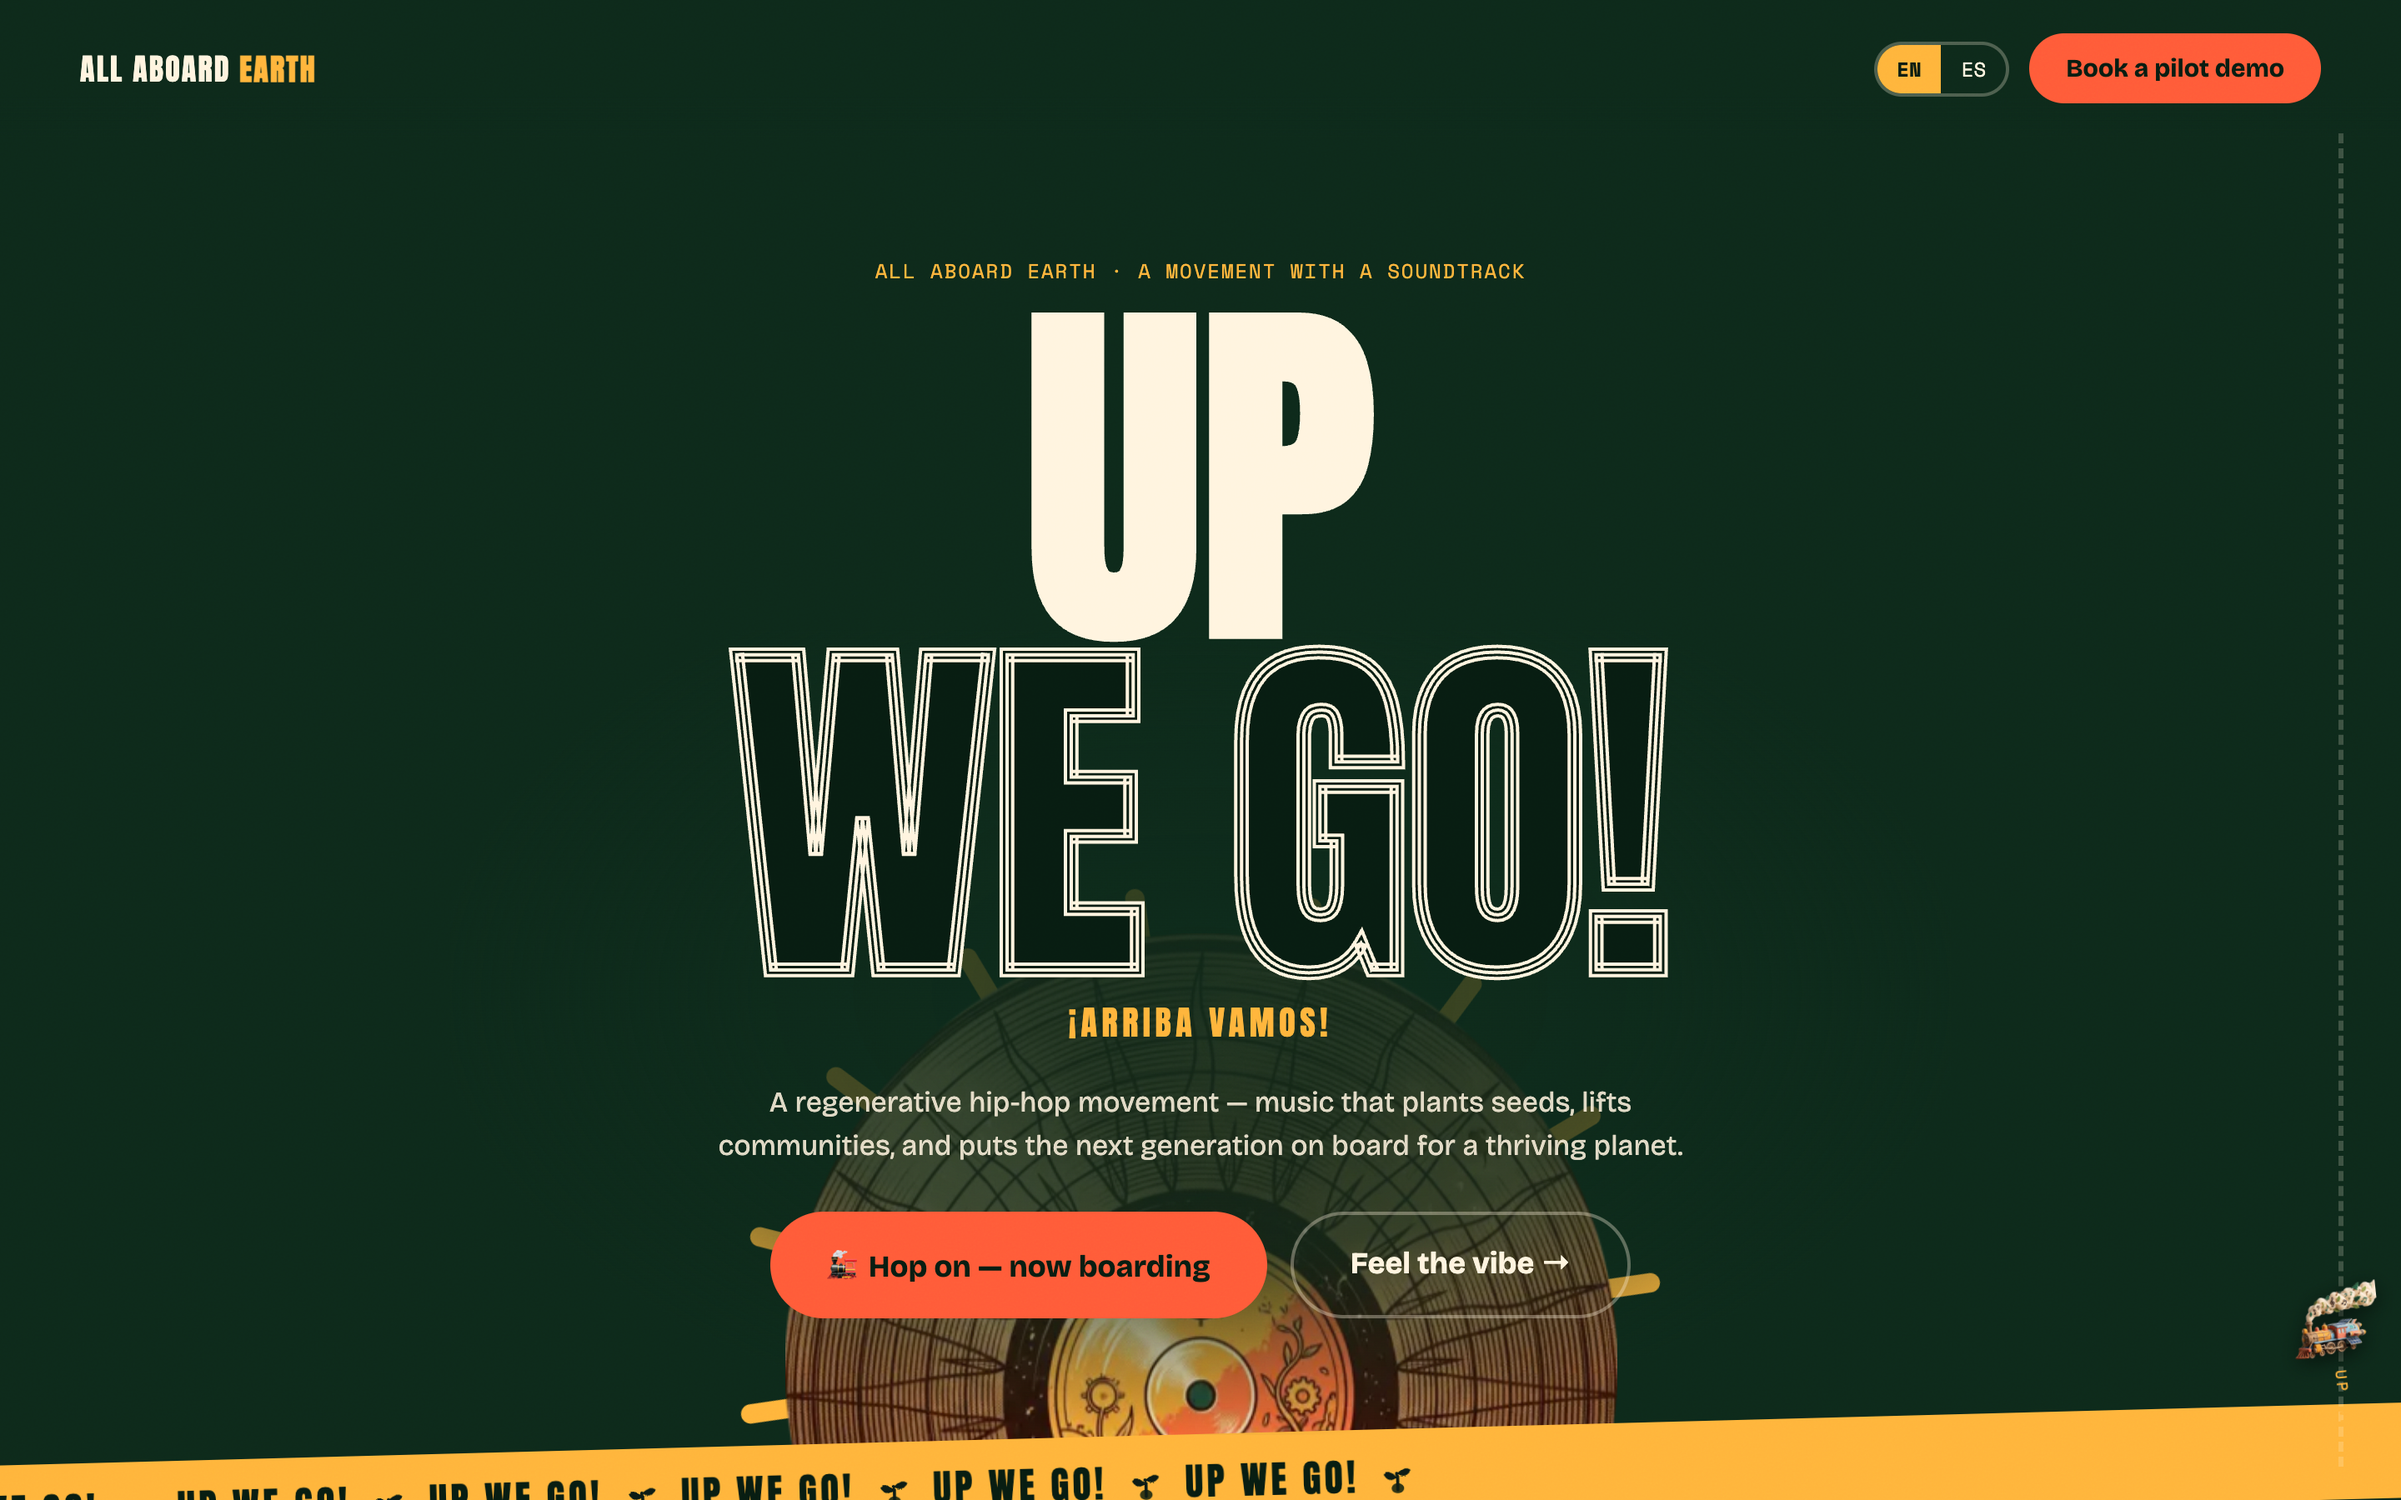
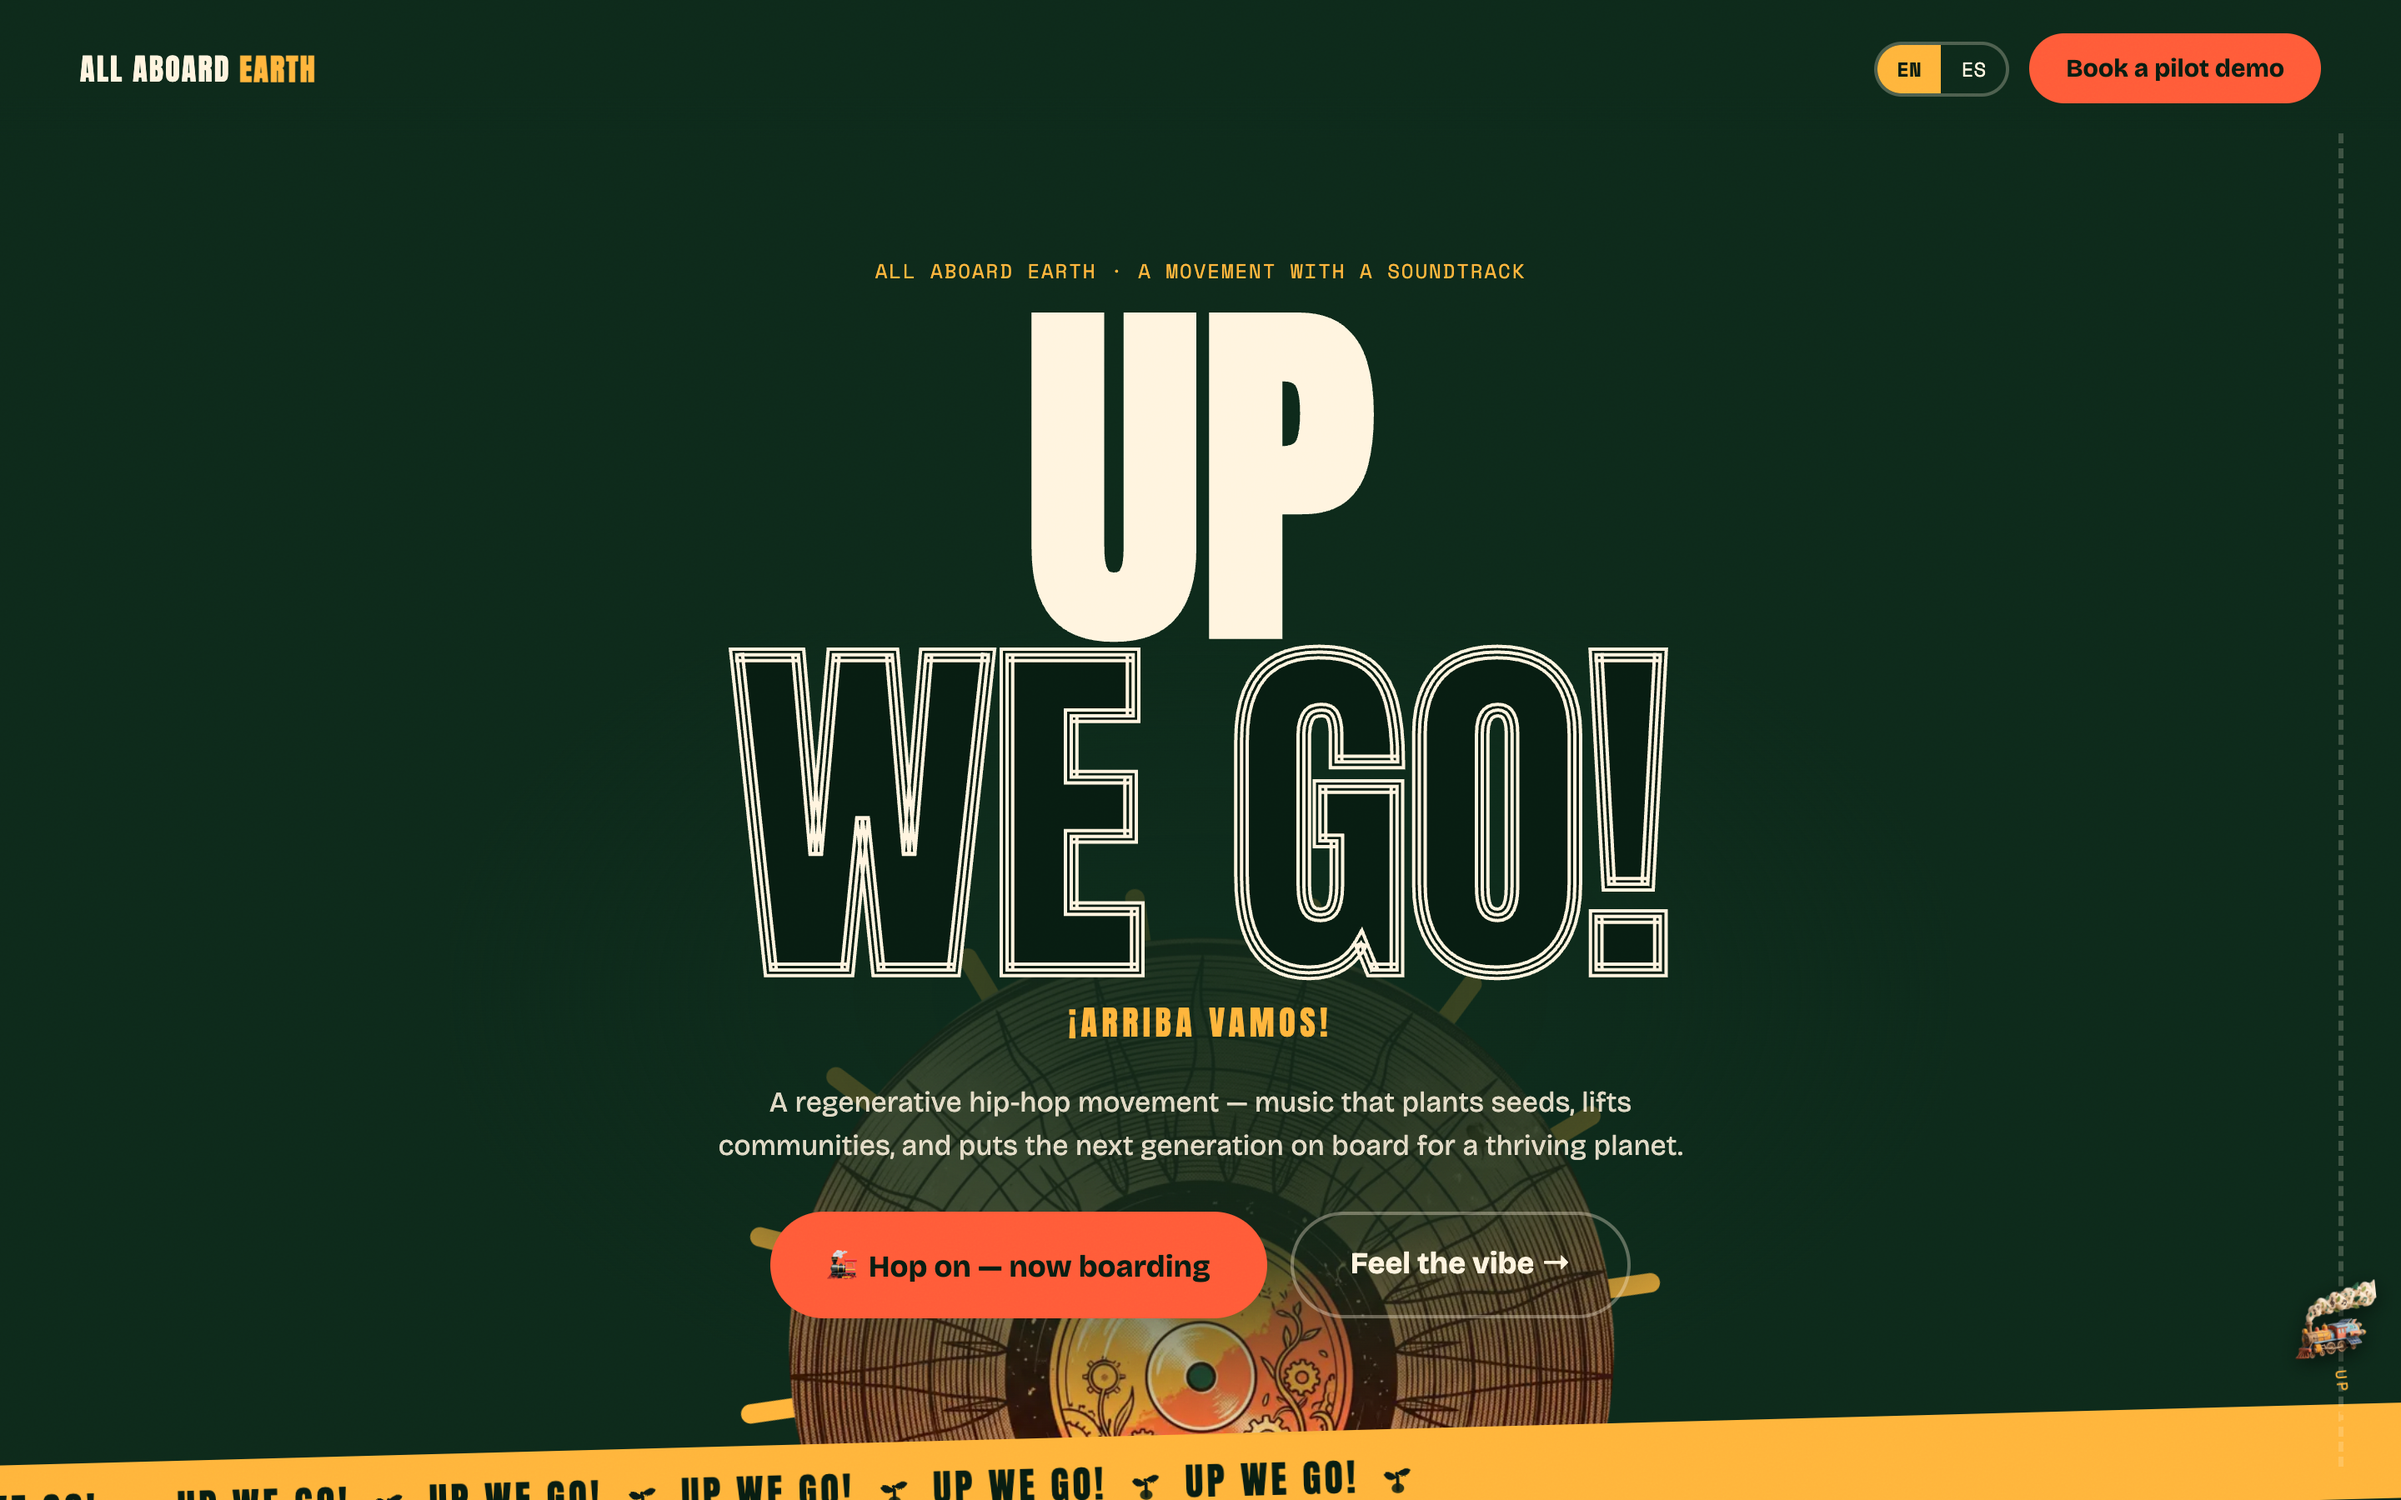
Fix the squashed hero record and raise it to retina resolution
The record was rendering 248x520 instead of square. The img carries
width/height attributes, which act as CSS presentation hints; the rule
set width:86% but no height, so height stayed pinned at the attribute
value and the disc stretched. height:auto restores it - rendered ratio
is now 1.000 at both breakpoints.

That was also why Lighthouse best-practices fell to 92: it flagged both
"incorrect aspect ratio" and "low resolution" on this one image. The
source goes 520 -> 740px (60 -> 104KB), which covers mobile retina
(needs 651px at DPR 2.625). Desktop retina wants ~998px and will be
slightly soft; a srcset would close that, at the cost of complicating
the preload.

Changed region(s): [[0.3125, 0.7778, 0.6875, 0.9644], [0.3438, 0.7778, 0.4375, 0.8089]]

diff --git a/src/AllAboardEarthPrototype.jsx b/src/AllAboardEarthPrototype.jsx
@@ -274,8 +274,8 @@ function VinylSun() {
         className="vinyl-disc"
         src="/art/vinyl-sun.webp"
         alt=""
-        width="520"
-        height="520"
+        width="740"
+        height="740"
         fetchPriority="high"
         decoding="async"
       />
@@ -579,7 +579,7 @@ export default function App() {
           z-index:0; transform:translateX(-50%); animation:rise 1.6s var(--ease-settle) both; will-change:transform; }
         .vinyl-sun{ display:block; width:100%; position:absolute; inset:0;
           transform:translate3d(0, var(--sun-shift, 0px), 0); will-change:transform; }
-        .vinyl-disc{ position:relative; display:block; width:86%; margin:7% auto;
+        .vinyl-disc{ position:relative; display:block; width:86%; height:auto; margin:7% auto;
           transform:translate3d(0, var(--sun-shift, 0px), 0) rotate(0deg); will-change:transform; }
         @keyframes rise{ from{ transform:translateX(-50%) translateY(70vh); opacity:0; } to{ transform:translateX(-50%) translateY(0); opacity:1; } }
         /* the whole record turns, 45s/rev; hover spins it up like a turntable */
